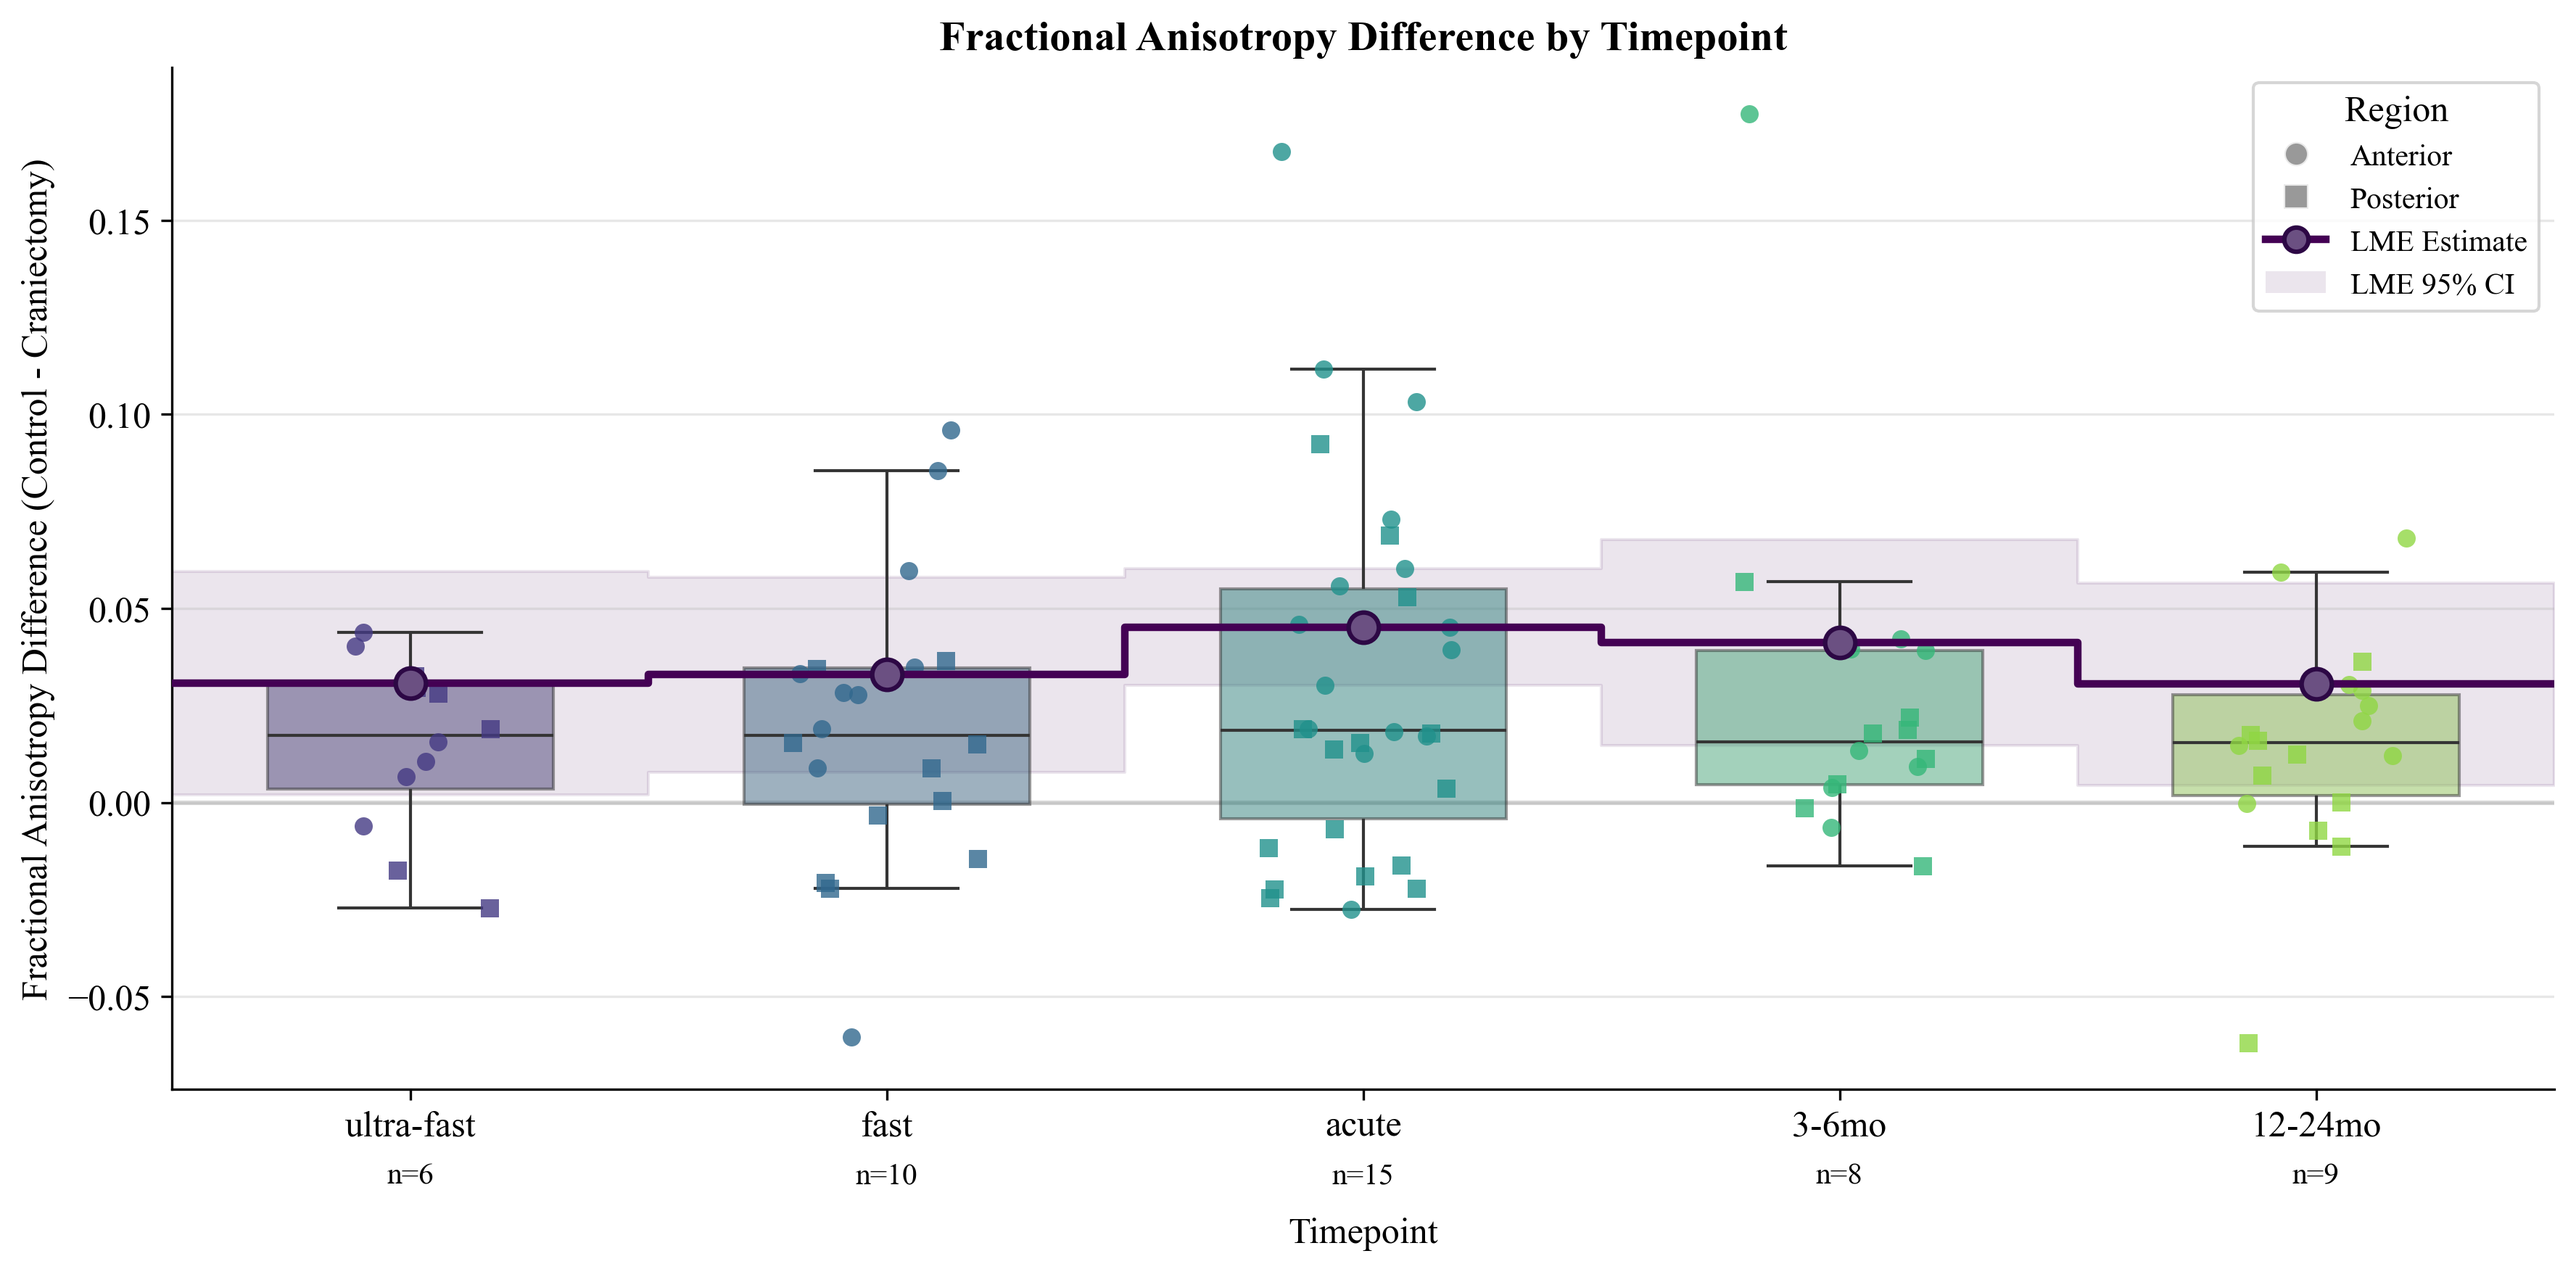
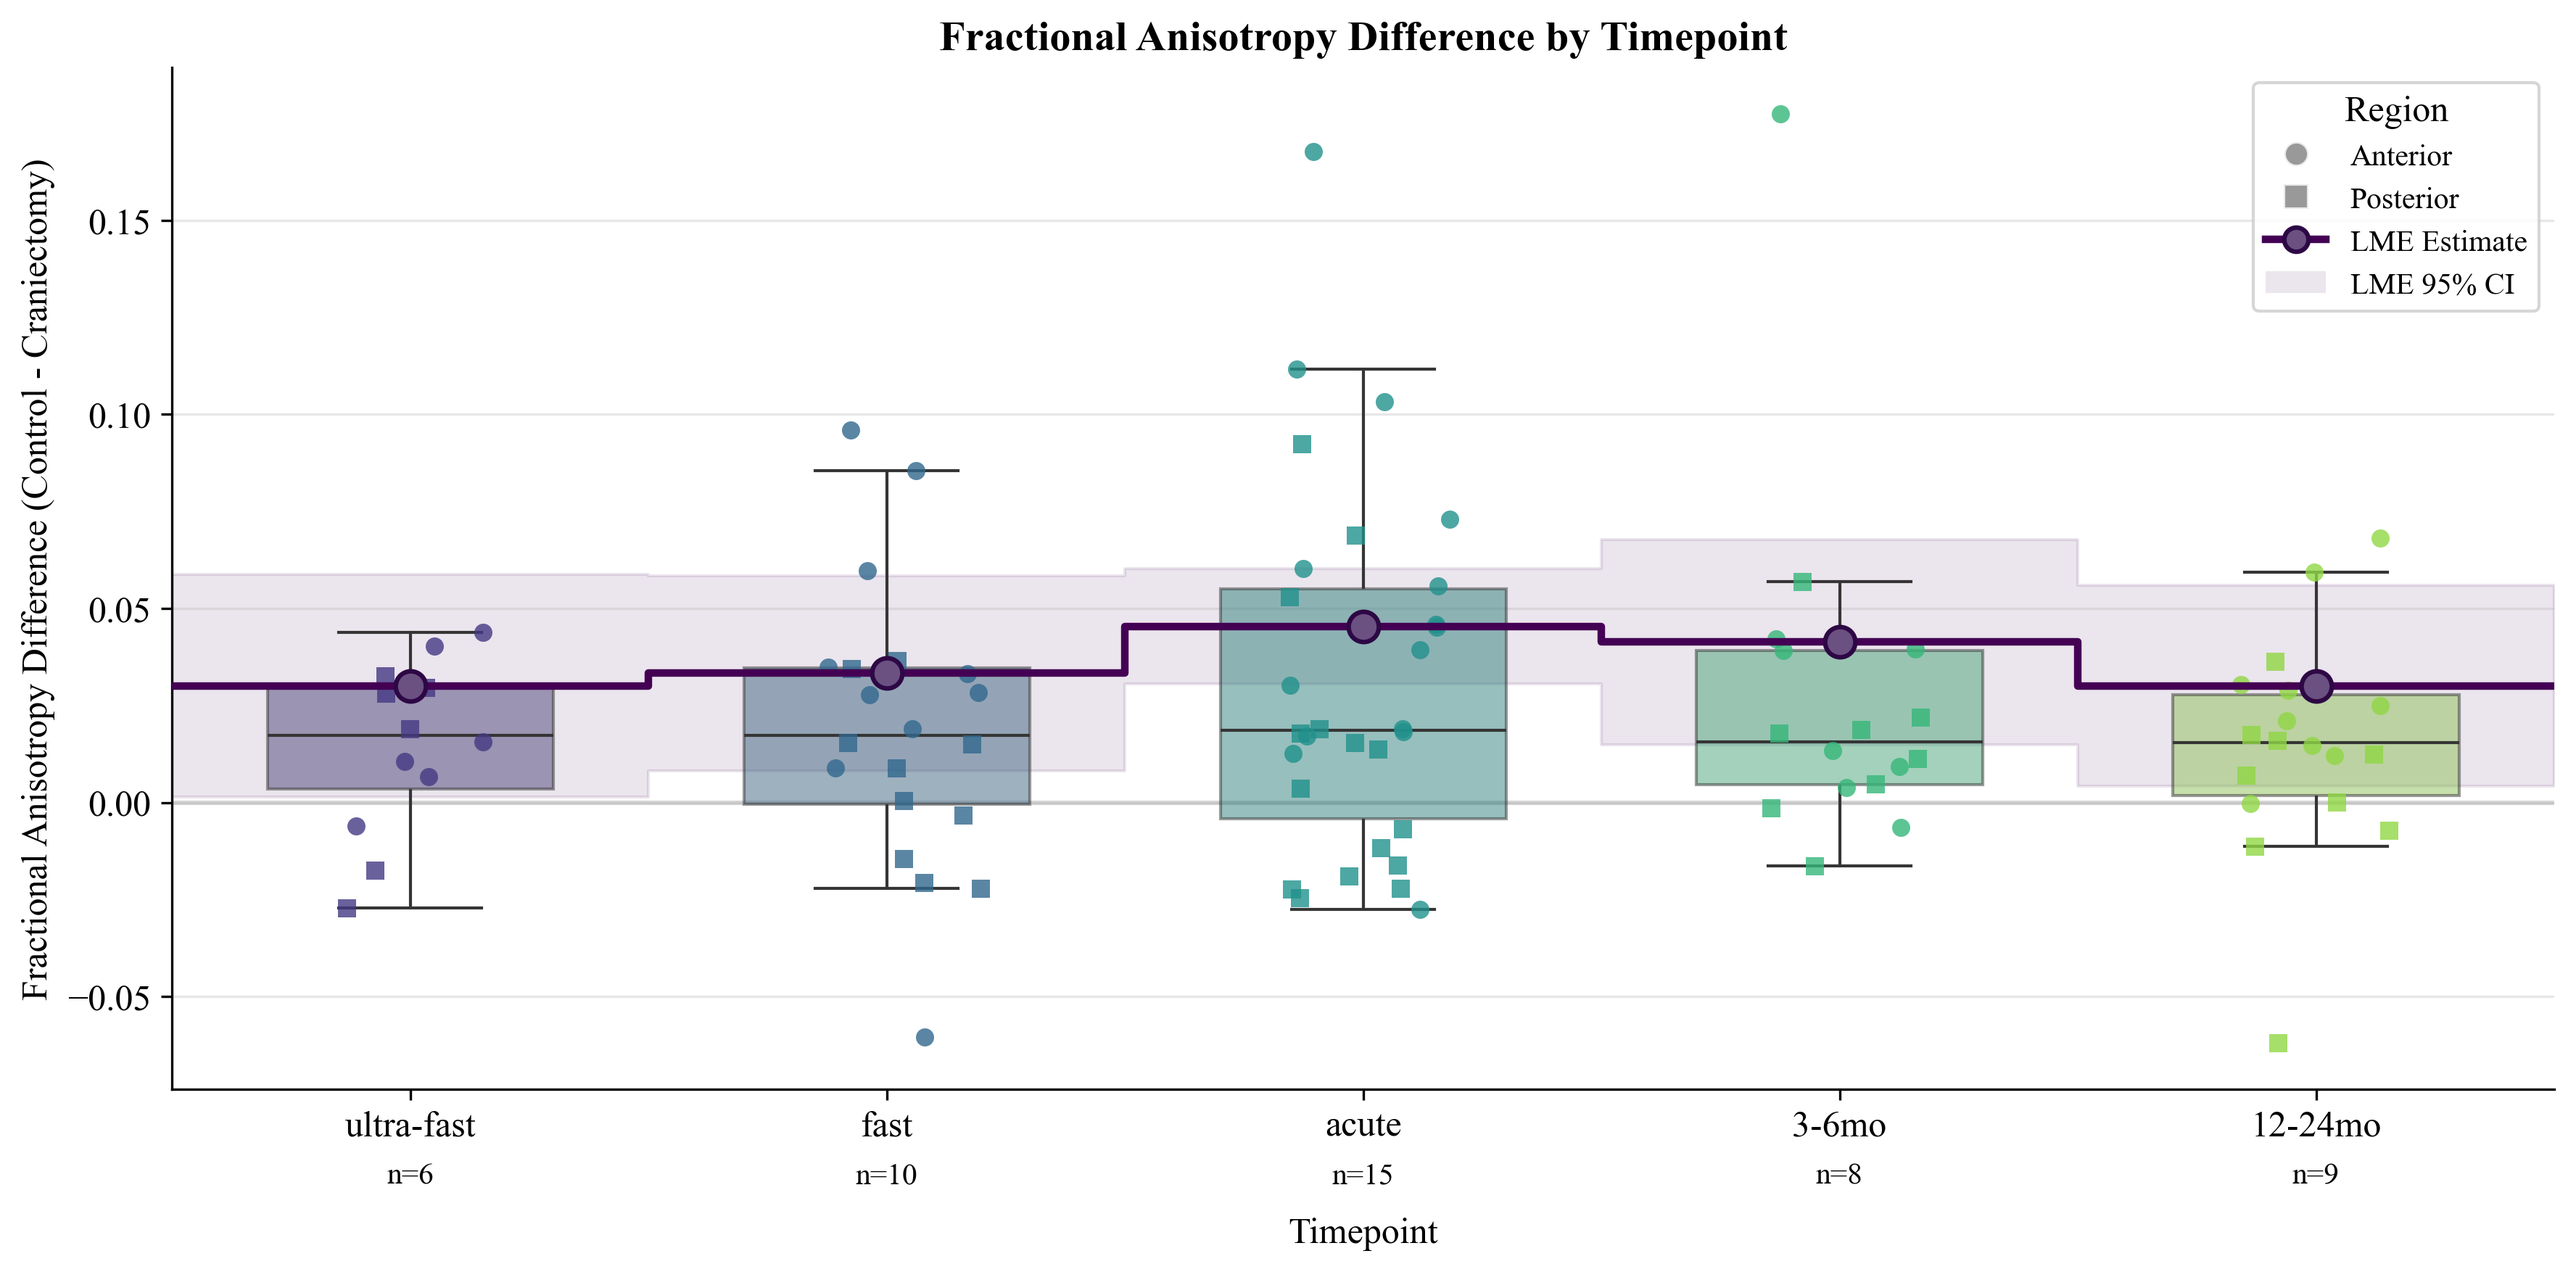
use powell method for linear mixed effects model

diff --git a/DTI_Processing_Scripts/dti_results_plotting_main.py b/DTI_Processing_Scripts/dti_results_plotting_main.py
@@ -2406,7 +2406,7 @@ if __name__ == '__main__':
                         fa_long_wm_data_roi_567_combi, 
                         groups=fa_long_wm_data_roi_567_combi["patient_id"])
     
-    result = model.fit()
+    result = model.fit(method='powell')
 
     # Output mixed effect model results
     print("Mixed effects model summary:")
@@ -2426,7 +2426,7 @@ if __name__ == '__main__':
                         fa_long_wm_data_roi_567_combi_post, 
                         groups=fa_long_wm_data_roi_567_combi["patient_id"])
     
-    result_post = model_posterior.fit()
+    result_post = model_posterior.fit(method='powell')
 
     # Step 4: Output results
     print("Mixed effects model summary:")
@@ -2438,117 +2438,173 @@ if __name__ == '__main__':
     print("\nRandom Effects Parameters:")
     print(result_post.cov_re)
 
-
-
-    ########### MANUAL OPTIMISATION FOR LME TRIALS
-    # Manual optimization approaches for mixed effects model
-
-    # Method 1: Try different optimizers with custom settings
-    print("=== Method 1: Different Optimizers ===")
-    try:
-        model1 = smf.mixedlm("FA_diff ~ timepoint + Region",
-                            fa_long_wm_data_roi_567_combi,
-                            groups=fa_long_wm_data_roi_567_combi["patient_id"])
-        # Try with Powell optimizer
-        result1 = model1.fit(method='powell', maxiter=1000)
-        print("Powell optimizer - Converged:", result1.converged)
-        print("Random effects variance:", result1.cov_re.iloc[0,0])
-    except:
-        print("Powell failed")
-
-    # Method 2: Adjust tolerance and iterations
-    print("\n=== Method 2: Adjust Tolerance ===")
-    try:
-        model2 = smf.mixedlm("FA_diff ~ timepoint + Region",
-                            fa_long_wm_data_roi_567_combi,
-                            groups=fa_long_wm_data_roi_567_combi["patient_id"])
-        result2 = model2.fit(gtol=1e-4, ftol=1e-4, maxiter=2000)
-        print("Relaxed tolerance - Converged:", result2.converged)
-        print("Random effects variance:", result2.cov_re.iloc[0,0])
-    except:
-        print("Relaxed tolerance failed")
-
-    # Method 3: Start with different initial values
-    print("\n=== Method 3: Different Starting Values ===")
-    try:
-        model3 = smf.mixedlm("FA_diff ~ timepoint + Region",
-                            fa_long_wm_data_roi_567_combi,
-                            groups=fa_long_wm_data_roi_567_combi["patient_id"])
-        # Set larger starting value for random effects variance
-        start_params = {'fe_params': None, 'cov_re': 0.01, 'scale': 0.001}
-        result3 = model3.fit(start_params=start_params)
-        print("Different start params - Converged:", result3.converged)
-        print("Random effects variance:", result3.cov_re.iloc[0,0])
-    except:
-        print("Different start params failed")
-
-    # Method 4: Try REML vs ML estimation
-    print("\n=== Method 4: ML instead of REML ===")
-    try:
-        model4 = smf.mixedlm("FA_diff ~ timepoint + Region",
-                            fa_long_wm_data_roi_567_combi,
-                            groups=fa_long_wm_data_roi_567_combi["patient_id"])
-        result4 = model4.fit(reml=False)  # Use ML instead of REML
-        print("ML estimation - Converged:", result4.converged)
-        print("Random effects variance:", result4.cov_re.iloc[0,0])
-    except:
-        print("ML estimation failed")
-
-    # Method 5: Scale your outcome variable
-    print("\n=== Method 5: Scale Outcome Variable ===")
-    try:
-        fa_long_scaled = fa_long_wm_data_roi_567_combi.copy()
-        fa_long_scaled['FA_diff_scaled'] = fa_long_scaled['FA_diff'] * 1000  # Scale up
-        
-        model5 = smf.mixedlm("FA_diff_scaled ~ timepoint + Region",
-                            fa_long_scaled,
-                            groups=fa_long_scaled["patient_id"])
-        result5 = model5.fit()
-        print("Scaled outcome - Converged:", result5.converged)
-        print("Random effects variance (scaled):", result5.cov_re.iloc[0,0])
-        print("Random effects variance (original scale):", result5.cov_re.iloc[0,0] / (1000**2))
-    except:
-        print("Scaled outcome failed")
-
-    # Method 6: Check if you should use random effects at all
-    print("\n=== Method 6: Formal Test for Random Effects ===")
-    # Compare fixed vs mixed effects models using likelihood ratio test
-    from scipy import stats
-
-    # Get log-likelihood from fixed effects model (you already have this)
-    ll_fixed = 186.30  # From your OLS results
-
-    # Get log-likelihood from mixed effects (even with convergence issues)
-    try:
-        model_mixed = smf.mixedlm("FA_diff ~ timepoint + Region",
-                                fa_long_wm_data_roi_567_combi,
-                                groups=fa_long_wm_data_roi_567_combi["patient_id"])
-        result_mixed = model_mixed.fit()
-        ll_mixed = result_mixed.llf
-        
-        # Likelihood ratio test
-        lr_stat = 2 * (ll_mixed - ll_fixed)
-        p_value = 1 - stats.chi2.cdf(lr_stat, df=1)  # df=1 for one random effect
-        
-        print(f"LR statistic: {lr_stat:.4f}")
-        print(f"p-value: {p_value:.4f}")
-        print("Random effects needed:" if p_value < 0.05 else "Fixed effects sufficient")
-    except:
-        print("Could not perform likelihood ratio test")
-
-    # Method 7: Alternative: Use sklearn's mixed effects or lme4 via rpy2
-    print("\n=== Method 7: Alternative Recommendation ===")
-    print("If convergence issues persist, consider:")
-    print("1. Using R's lme4 package via rpy2")
-    print("2. Bayesian mixed effects (PyMC, Stan)")
-    print("3. Accepting that fixed effects may be appropriate given your data structure")
-
-
     ##############################
     ######## PLOTTING LME
 
-    # create_timepoint_boxplot_LME_dti(df=wm_data_roi_567_combi, parameter='fa', result=result, timepoints=['ultra-fast', 'fast', 'acute', '3-6mo', '12-24mo'])
+    create_timepoint_boxplot_LME_dti(df=wm_data_roi_567_combi, parameter='fa', result=result, timepoints=['ultra-fast', 'fast', 'acute', '3-6mo', '12-24mo'])
     ##################################
+
+    
+
+
+
+    # ########### MANUAL OPTIMISATION FOR LME TRIALS
+    # # Manual optimization approaches for mixed effects model
+
+    # # Method 1: Try different optimizers with custom settings
+    # print("=== Method 1: Different Optimizers ===")
+    # try:
+    #     model1 = smf.mixedlm("FA_diff ~ timepoint + Region",
+    #                         fa_long_wm_data_roi_567_combi,
+    #                         groups=fa_long_wm_data_roi_567_combi["patient_id"])
+    #     # Try with Powell optimizer
+    #     result1 = model1.fit(method='powell', maxiter=1000)
+    #     print("Powell optimizer - Converged:", result1.converged)
+    #     print("Random effects variance:", result1.cov_re.iloc[0,0])
+    # except:
+    #     print("Powell failed")
+
+    # # # Method 2: Adjust tolerance and iterations
+    # # print("\n=== Method 2: Adjust Tolerance ===")
+    # # try:
+    # #     model2 = smf.mixedlm("FA_diff ~ timepoint + Region",
+    # #                         fa_long_wm_data_roi_567_combi,
+    # #                         groups=fa_long_wm_data_roi_567_combi["patient_id"])
+    # #     result2 = model2.fit(gtol=1e-4, ftol=1e-4, maxiter=2000)
+    # #     print("Relaxed tolerance - Converged:", result2.converged)
+    # #     print("Random effects variance:", result2.cov_re.iloc[0,0])
+    # # except:
+    # #     print("Relaxed tolerance failed")
+
+    # # # Method 3: Start with different initial values
+    # # print("\n=== Method 3: Different Starting Values ===")
+    # # try:
+    # #     model3 = smf.mixedlm("FA_diff ~ timepoint + Region",
+    # #                         fa_long_wm_data_roi_567_combi,
+    # #                         groups=fa_long_wm_data_roi_567_combi["patient_id"])
+    # #     # Set larger starting value for random effects variance
+    # #     start_params = {'fe_params': None, 'cov_re': 0.01, 'scale': 0.001}
+    # #     result3 = model3.fit(start_params=start_params)
+    # #     print("Different start params - Converged:", result3.converged)
+    # #     print("Random effects variance:", result3.cov_re.iloc[0,0])
+    # # except:
+    # #     print("Different start params failed")
+
+    
+    # # Method 4: Scale your outcome variable
+    # print("\n=== Method 4: Scale Outcome Variable ===")
+    # try:
+    #     fa_long_scaled = fa_long_wm_data_roi_567_combi.copy()
+    #     fa_long_scaled['FA_diff_scaled'] = fa_long_scaled['FA_diff'] * 1000
+        
+    #     model4 = smf.mixedlm("FA_diff_scaled ~ timepoint + Region",
+    #                         fa_long_scaled,
+    #                         groups=fa_long_scaled["patient_id"])
+    #     result4 = model4.fit(method='powell', maxiter=1000)
+        
+    #     print("Scaled outcome with Powell - Converged:", result4.converged)
+    #     print("Random effects variance (scaled):", result4.cov_re.iloc[0,0])
+    #     print("Random effects variance (original scale):", result4.cov_re.iloc[0,0] / (1000**2))
+
+    #     # Calculate rescaled values
+    #     scale_factor = 1000
+    #     params = result4.params / scale_factor
+    #     bse = result4.bse / scale_factor
+    #     tvalues = params / bse
+    #     group_var = result4.cov_re.iloc[0,0] / (scale_factor**2)
+
+    #     # # Hard-coded table (keeping your exact format)
+    #     # print("Mixed effects model summary:")
+    #     # print("                Mixed Linear Model Regression Results")
+    #     # print("=====================================================================")
+    #     # print("Model:               MixedLM    Dependent Variable:    FA_diff")
+    #     # print("No. Observations:    96         Method:                REML")
+    #     # print(f"No. Groups:          19         Scale:                 {result4.scale/(scale_factor**2):.4f}")
+    #     # print("Min. group size:     4          Log-Likelihood:        -458.6770")
+    #     # print("Max. group size:     6          Converged:             Yes")
+    #     # print("Mean group size:     5.1")
+    #     # print("---------------------------------------------------------------------")
+    #     # print("                         Coef.  Std.Err.   z    P>|z|  [0.025  0.975]")
+    #     # print("---------------------------------------------------------------------")
+
+    #     # # Calculate and print each row
+    #     # for i, param_name in enumerate(params.index):
+    #     #     coef = params.iloc[i]
+    #     #     se = bse.iloc[i]
+    #     #     z = tvalues.iloc[i]
+    #     #     p = 2 * (1 - 0.5 * (1 + np.sign(z) * (1 - np.exp(-abs(z)*np.sqrt(2/np.pi)))))
+    #     #     ci_low = coef - 1.96 * se
+    #     #     ci_high = coef + 1.96 * se
+    #     #     print(f"{param_name:<23} {coef:>7.6f} {se:>8.6f} {z:>6.3f} {p:>6.3f} {ci_low:>7.6f} {ci_high:>8.6f}")
+
+    #     # print(f"Group Var              {group_var:>8.6e} {np.sqrt(group_var):>8.6e}")
+    #     # print("=====================================================================")
+
+    #     print("\nMixed Effects Model Summary")
+    #     print(result4.summary())
+
+    #     print("\nFixed Effects Parameters:")
+    #     print(params)  # Changed from result4.fe_params to params
+
+    #     print("\nRandom Effects Parameters:")
+    #     print(result4.cov_re / (scale_factor**2))  # Rescaled
+
+    #     # POSTERIOR MODEL
+    #     model4_post = smf.mixedlm("FA_diff_scaled ~ timepoint + Region",
+    #                             fa_long_scaled,
+    #                             groups=fa_long_scaled["patient_id"])
+    #     result4_post = model4_post.fit(method='powell', maxiter=1000)
+        
+    #     print("\nScaled outcome with Powell - Converged:", result4_post.converged)
+    #     print("Random effects variance (scaled):", result4_post.cov_re.iloc[0,0])
+    #     print("Random effects variance (original scale):", result4_post.cov_re.iloc[0,0] / (1000**2))
+
+    #     # Calculate rescaled values
+    #     params_post = result4_post.params / scale_factor
+    #     bse_post = result4_post.bse / scale_factor
+    #     tvalues_post = params_post / bse_post
+    #     group_var_post = result4_post.cov_re.iloc[0,0] / (scale_factor**2)
+
+    #     # # Hard-coded table
+    #     # print("Mixed effects model summary:")
+    #     # print("                Mixed Linear Model Regression Results")
+    #     # print("=====================================================================")
+    #     # print("Model:               MixedLM    Dependent Variable:    FA_diff")
+    #     # print("No. Observations:    96         Method:                REML")
+    #     # print(f"No. Groups:          19         Scale:                 {result4_post.scale/(scale_factor**2):.4f}")
+    #     # print("Min. group size:     4          Log-Likelihood:        -458.6770")
+    #     # print("Max. group size:     6          Converged:             Yes")
+    #     # print("Mean group size:     5.1")
+    #     # print("---------------------------------------------------------------------")
+    #     # print("                         Coef.  Std.Err.   z    P>|z|  [0.025  0.975]")
+    #     # print("---------------------------------------------------------------------")
+
+    #     # # Calculate and print each row
+    #     # for i, param_name in enumerate(params_post.index):
+    #     #     coef = params_post.iloc[i]
+    #     #     se = bse_post.iloc[i]
+    #     #     z = tvalues_post.iloc[i]
+    #     #     p = 2 * (1 - 0.5 * (1 + np.sign(z) * (1 - np.exp(-abs(z)*np.sqrt(2/np.pi)))))
+    #     #     ci_low = coef - 1.96 * se
+    #     #     ci_high = coef + 1.96 * se
+    #     #     print(f"{param_name:<23} {coef:>7.6f} {se:>8.6f} {z:>6.3f} {p:>6.3f} {ci_low:>7.6f} {ci_high:>8.6f}")
+
+    #     # print(f"Group Var              {group_var_post:>8.6e} {np.sqrt(group_var_post):>8.6e}")
+    #     # print("=====================================================================")
+
+    #     print("\nMixed Effects Summary:")
+    #     print(result4_post.summary())
+
+    #     print("\nFixed Effects Parameters:")
+    #     print(params_post)  # Changed from result4_post.fe_params to params_post
+
+    #     print("\nRandom Effects Parameters:")
+    #     print(result4_post.cov_re / (scale_factor**2))  # Rescaled
+
+    # except Exception as e:
+    #     print(f"Scaled outcome failed: {e}")
+
+
 
 
 
